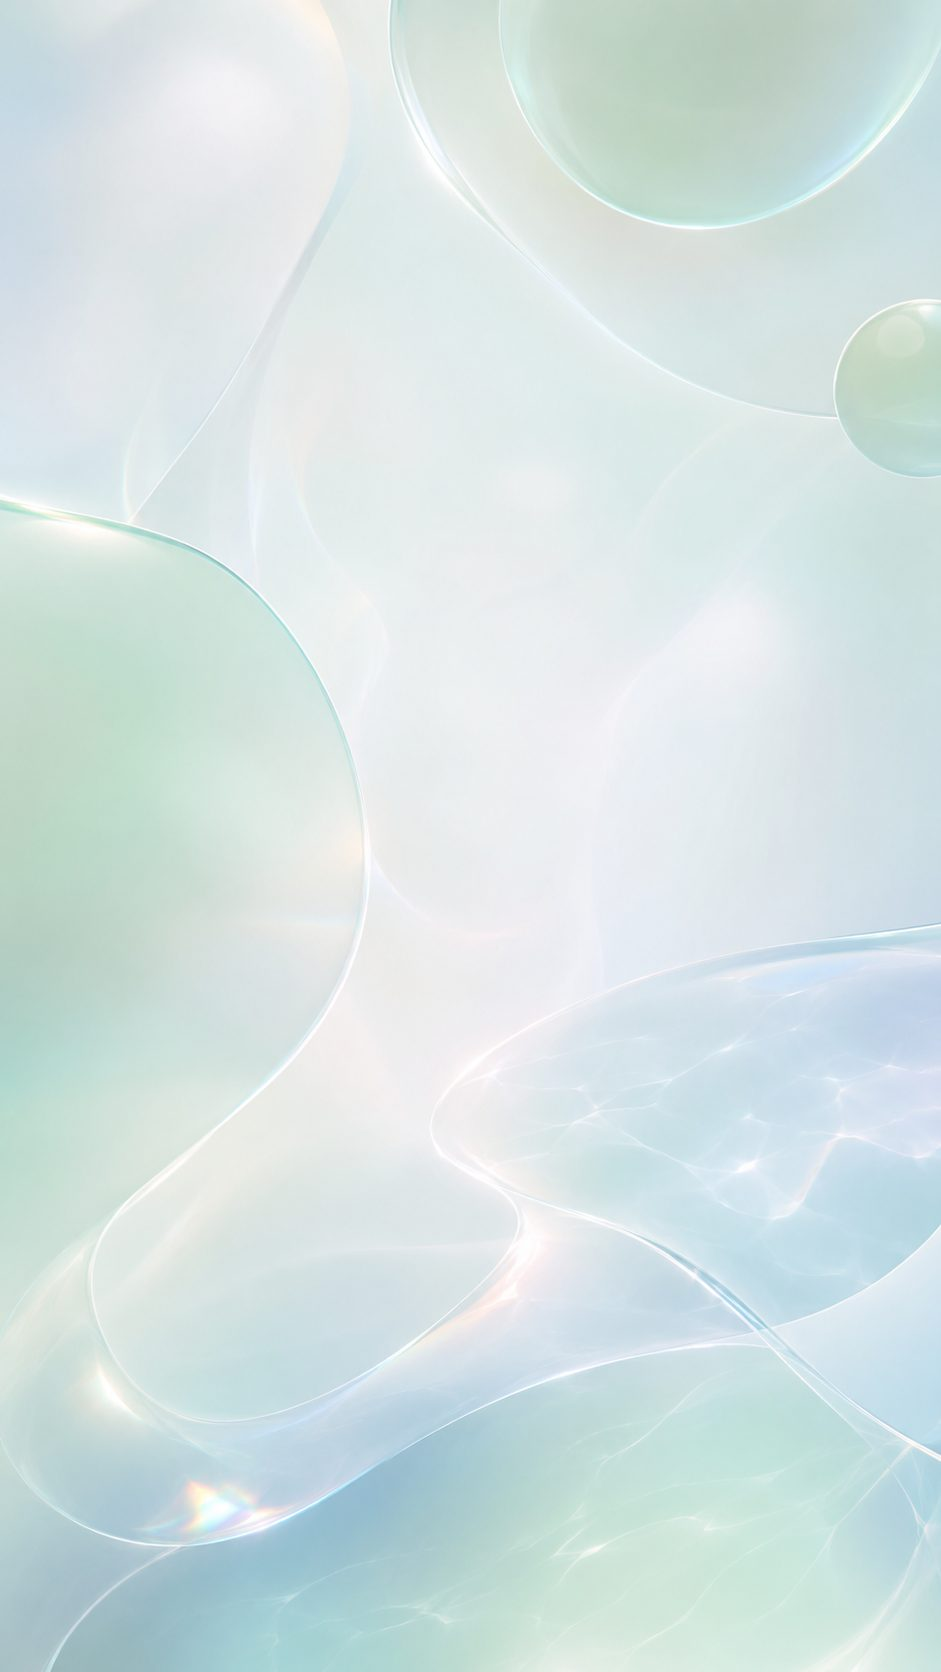
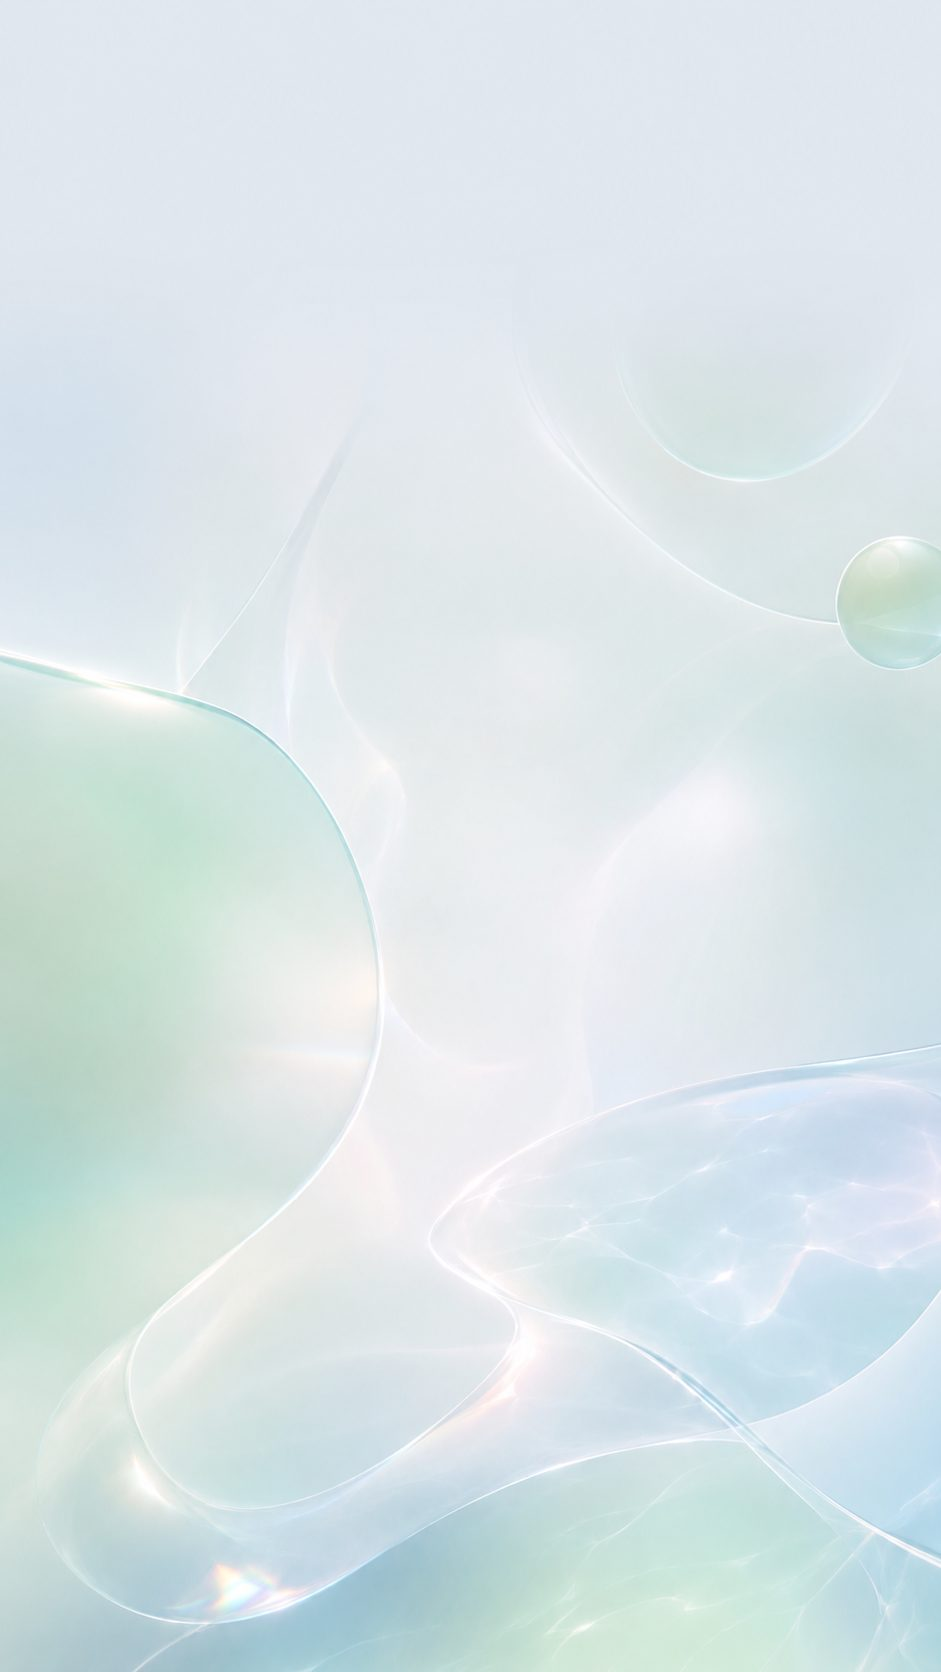
feat: 换上渐变顶壁纸(黛绿/琉璃) + 顶栏色贴新顶 + 主页卡片再调薄
- 替换 sage/aurora 壁纸为老婆自制渐变顶版本，顶部更贴状态栏
- BAR_COLORS 重采样：sage #e5ebf1 / aurora #dbddf0（index.html 预热+静态 meta 同步）
- 主页卡片更透视：home-glassy glass .2→.12、glass-strong .28→.18，模糊提到 24/26px

Claude-Session: https://claude.ai/code/session_01BPEUL8suVmircpqHK7XdEL

diff --git a/src/index.css b/src/index.css
@@ -139,16 +139,16 @@ body {
       inset 0 1px 0 rgba(255, 255, 255, 0.5);
   }
 
-  /* 主页：卡片更透视、更朦胧（壁纸透出更多，仍保证文字可读） */
+  /* 主页：卡片更薄更透视（壁纸透出更多；靠大模糊保证文字仍清楚） */
   .home-glassy .glass {
-    background: rgba(255, 255, 255, 0.2);
-    backdrop-filter: blur(22px) saturate(1.4);
-    -webkit-backdrop-filter: blur(22px) saturate(1.4);
+    background: rgba(255, 255, 255, 0.12);
+    backdrop-filter: blur(24px) saturate(1.35);
+    -webkit-backdrop-filter: blur(24px) saturate(1.35);
   }
   .home-glassy .glass-strong {
-    background: rgba(255, 255, 255, 0.28);
-    backdrop-filter: blur(24px) saturate(1.5);
-    -webkit-backdrop-filter: blur(24px) saturate(1.5);
+    background: rgba(255, 255, 255, 0.18);
+    backdrop-filter: blur(26px) saturate(1.45);
+    -webkit-backdrop-filter: blur(26px) saturate(1.45);
   }
 
   /* 顶栏毛玻璃条（半透明，可透出下方内容） */

diff --git a/index.html b/index.html
@@ -9,7 +9,7 @@
     <meta name="description" content="伯恩主屋版 · 长期记忆系统" />
     <meta name="apple-mobile-web-app-capable" content="yes" />
     <meta name="apple-mobile-web-app-status-bar-style" content="default" />
-    <meta name="theme-color" content="#dcd5f3" />
+    <meta name="theme-color" content="#dbddf0" />
     <script>
       // 首帧前预热：按上次主题设好 data-theme 与 theme-color，避免顶部白闪
       (function () {
@@ -18,7 +18,7 @@
           var id = raw ? JSON.parse(raw).id : 'aurora'
           if (['sage', 'aurora', 'ink'].indexOf(id) < 0) id = 'aurora'
           document.documentElement.dataset.theme = id
-          var bar = { sage: '#dce6df', aurora: '#dcd5f3', ink: '#f2f3f4' }[id]
+          var bar = { sage: '#e5ebf1', aurora: '#dbddf0', ink: '#f2f3f4' }[id]
           var m = document.querySelector('meta[name="theme-color"]')
           if (m) m.setAttribute('content', bar)
         } catch (e) {}

diff --git a/src/store/themeStore.ts b/src/store/themeStore.ts
@@ -37,8 +37,8 @@ const DEFAULT_THEME: ThemeId = 'aurora'
 /** 各主题的顶部条颜色（状态栏 / theme-color）。
  *  黛绿/琉璃取壁纸顶部叠白后的真实色，让状态栏那条和壁纸接得上、不露浅色缝。 */
 export const BAR_COLORS: Record<ThemeId, string> = {
-  sage: '#dce6df',
-  aurora: '#dcd5f3',
+  sage: '#e5ebf1',
+  aurora: '#dbddf0',
   ink: '#f2f3f4',
 }
 

diff --git a/docs/HANDOFF.md b/docs/HANDOFF.md
@@ -66,7 +66,9 @@
 - **顶栏色贴壁纸**：状态栏只能纯色，琉璃旧 `#eceaf4` 比壁纸顶部更白 → 有缝。用 PIL 采样壁纸顶部叠白后的真实色，`BAR_COLORS` 改 aurora `#dcd5f3`/sage `#dce6df`（index.html 预热 bar map + 静态 meta 同步）。装机版换主题后退出重开即读到贴合色。
 - **🪟 主页卡片更透视**：Home 根 div 加 `home-glassy` 类，`index.css` 里 `.home-glassy .glass{background:rgba(255,255,255,.2);blur(22px)}`、`.glass-strong{.28;blur(24px)}`——只作用主页，壁纸透出更多更朦胧，其它页玻璃不变。
 
----
+**第五批（同日）· 换老婆自制渐变顶壁纸 + 卡片再调薄**：
+- **换壁纸**：老婆把两张壁纸顶部做成平滑浅色渐变（贴状态栏更顺）。替换 `src/assets/themes/{sage-bg,aurora-bg}.jpg`，重采样顶部叠白真实色：`BAR_COLORS` sage `#e5ebf1`/aurora `#dbddf0`（index.html 预热 + 静态 meta 同步）。生理期卡两块改 `justify-center gap-5` 居中靠拢。
+- **主页卡片再调薄**：`.home-glassy .glass` 背景 .2→**.12**、`.glass-strong` .28→**.18**，模糊提到 24/26 px 保可读。
 
 ## ℹ 聊天记录持久化（已解决）
 
